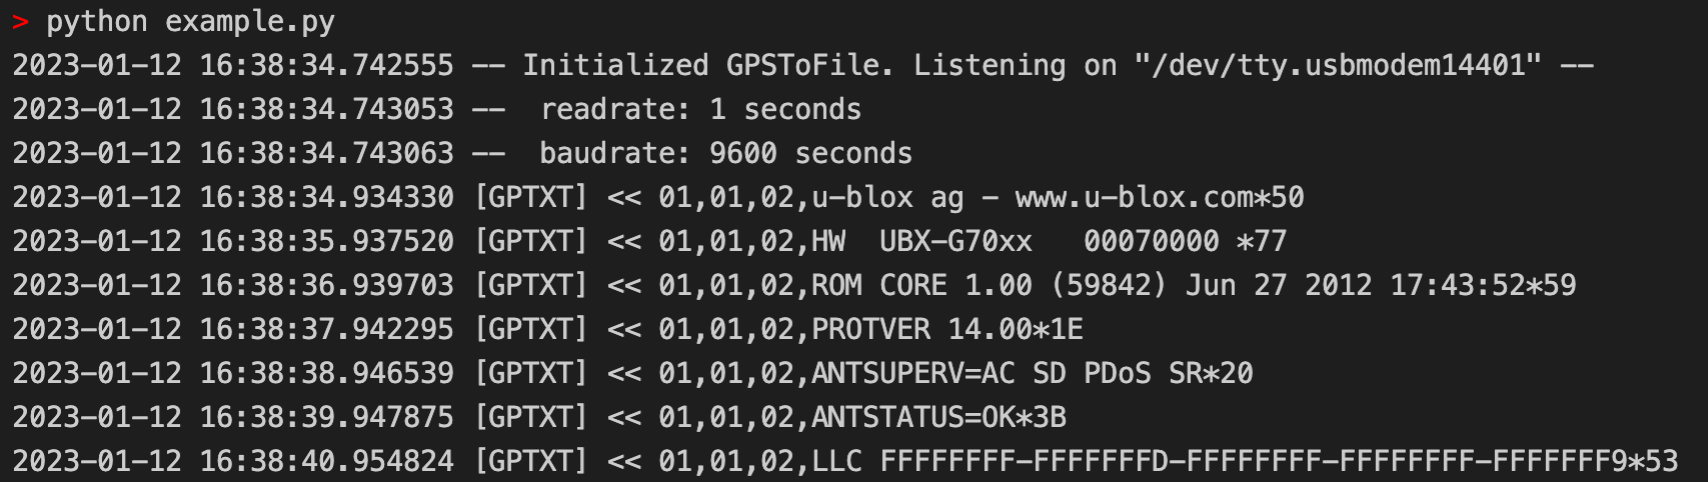
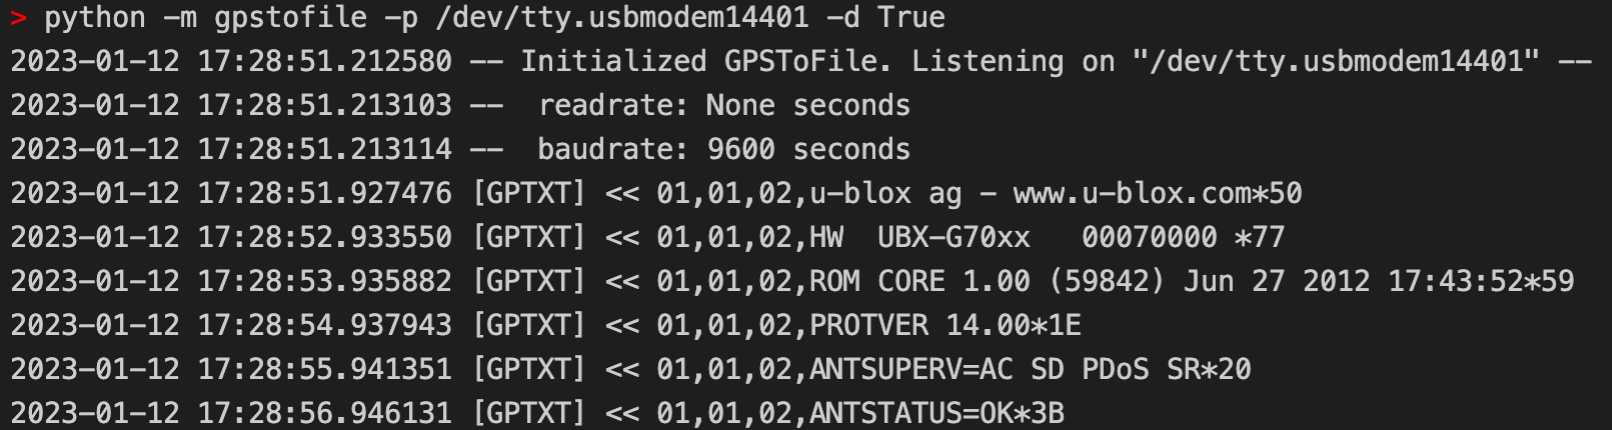
pypyi package

Changed region(s): [[0.0, 0.0, 0.9926, 0.9977]]

diff --git a/setup.py b/setup.py
@@ -1,0 +1,50 @@
+import setuptools
+
+with open('README.md', 'r', encoding='utf-8') as fh:
+    long_description = fh.read()
+
+setuptools.setup(
+    name='gpstofile',
+    author='pubudeux',
+    # author_email='liores@gmail.com',
+    description='Quick and easy way to read GPS sentences to file with no gpsd required.',
+    keywords='gps, serial, gpsd, gps sentences',
+    long_description=long_description,
+    long_description_content_type='text/markdown',
+    url='https://github.com/pubudeux/gpstofile',
+    project_urls={
+        'Documentation': 'https://github.com/pubudeux/gpstofile',
+        'Bug Reports':
+        'https://github.com/pubudeux/gpstofile/issues',
+        'Source Code': 'https://github.com/pubudeux/gpstofile',
+        # 'Funding': '',
+        # 'Say Thanks!': '',
+    },
+    package_dir={'': 'src'},
+    packages=setuptools.find_packages(where='src'),
+    classifiers=[
+        # see https://pypi.org/classifiers/
+        'Development Status :: 3 - Alpha',
+
+        'Intended Audience :: Developers',
+
+        'Programming Language :: Python :: 3.7',
+        'Programming Language :: Python :: 3.8',
+        'Programming Language :: Python :: 3.9',
+        'Programming Language :: Python :: 3 :: Only',
+        'License :: OSI Approved :: MIT License',
+        'Operating System :: OS Independent',
+    ],
+    python_requires='>=3.7',
+    # install_requires=['Pillow'],
+    extras_require={
+        'dev': ['check-manifest'],
+        # 'test': ['coverage'],
+    },
+    # entry_points={
+    #     'console_scripts': [  # This can provide executable scripts
+    #         'run=examplepy:main',
+    # You can execute `run` in bash to run `main()` in src/examplepy/__init__.py
+    #     ],
+    # },
+)

diff --git a/src/gpstofile/__main__.py b/src/gpstofile/__main__.py
@@ -1,0 +1,15 @@
+import argparse
+from .gpstofile import GPSToFile
+
+def main():
+    parser = argparse.ArgumentParser()
+    parser.add_argument('-r', '--readrate')
+    parser.add_argument('-p', '--path')
+    parser.add_argument('-d', '--debug')
+    args = parser.parse_args()
+    gps = GPSToFile(args.path, readrate=args.readrate, debug=args.debug)
+    gps.loop()
+
+
+if __name__ == "__main__":
+    main()

diff --git a/src/gpstofile/gpstofile.py b/src/gpstofile/gpstofile.py
@@ -1,5 +1,4 @@
 from datetime import datetime
-from multiprocessing.connection import wait
 
 import time
 from typing import Tuple

diff --git a/src/gpstofile/__init__.py b/src/gpstofile/__init__.py
@@ -1,0 +1,3 @@
+__version__ = "0.0.2"
+
+from .gpstofile import *

diff --git a/README.md b/README.md
@@ -2,15 +2,16 @@
 
 Quick and easy way to read GPS sentences to file with no gpsd required.
 
-![running on a ublox gps dongle](example-run.png)
+![running on a ublox gps dongle](https://github.com/pubudeux/gpstofile/blob/main/example-run.png)
 
 ## Getting Started
 
-The only required library is pyserial:
+Once you get the serial path of your GPS modem, you can get started either via command line, or by importing the module:
 
-`pip install -r requirements.txt`
+`python -m gpstofile --port /dev/tty.usbmodem14401 --debug True`
 
-Once you get the serial path of your GPS modem, you can get started:
+or:
+
 
 ```python
 from gpstofile import GPSToFile
